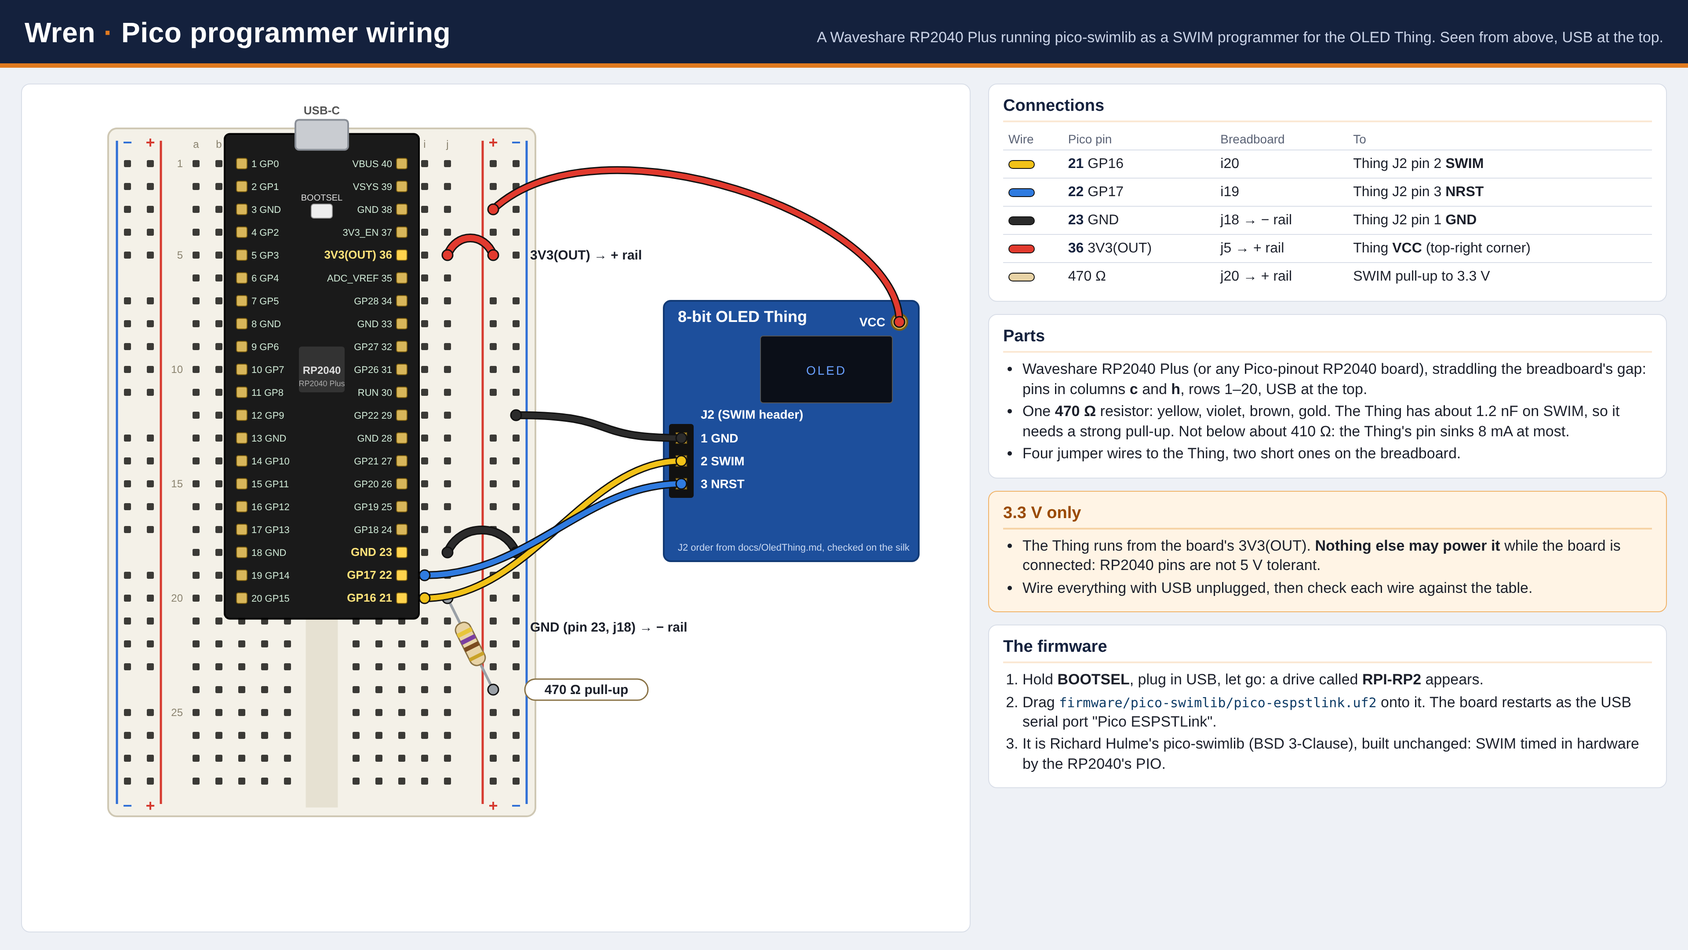
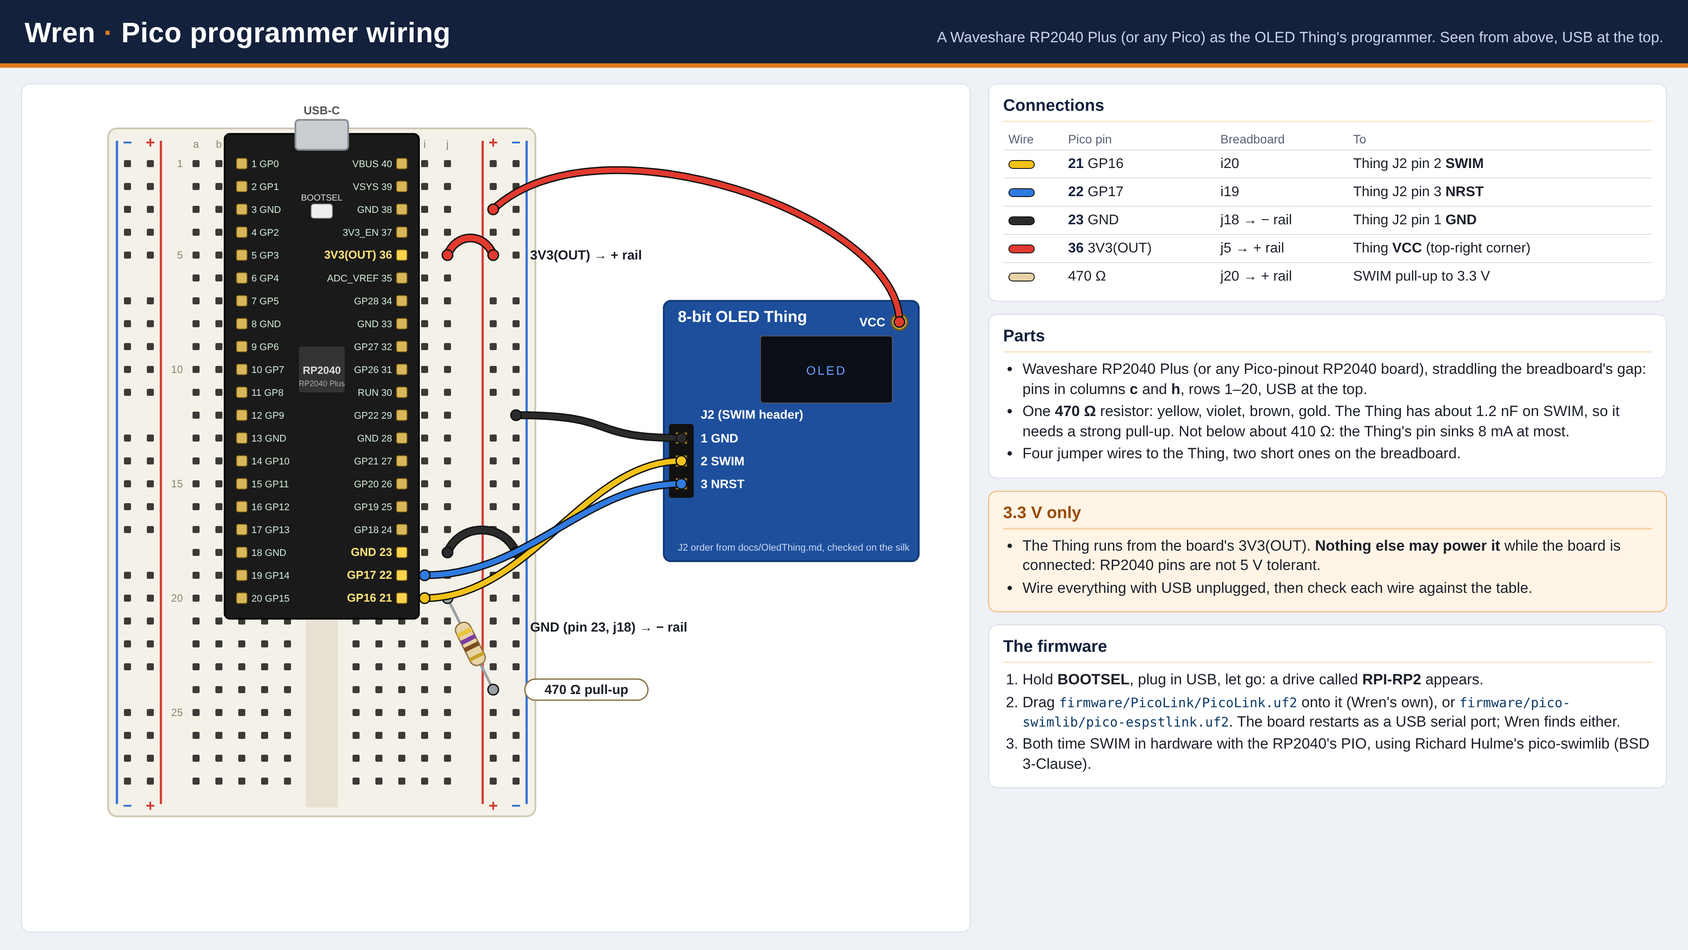
Tools → Firmware: one menu item, wiring sheets as links, refresh beside the list, Copy and Clear on the log
The Programmer and Debug module checks menu items become one, Tools → Firmware…,
and the window is titled Firmware. The wiring paragraph gives way to two links:
the Pico sheet (its firmware card now names PicoLink.uf2) and a new ST-LINK V2
sheet with the power notes. Find is a refresh button after the device list.

Claude-Session: https://claude.ai/code/session_01PM169qrH4mH2uiYQRpnWtD

Changed region(s): [[0.5938, 0.7134, 0.9688, 0.8065], [0.5, 0.031, 0.8438, 0.062]]

diff --git a/docs/Infographics/StLink_Programmer_Wiring.html b/docs/Infographics/StLink_Programmer_Wiring.html
@@ -1,0 +1,159 @@
+<!DOCTYPE html>
+<!--
+  ST-LINK programmer wiring: the source of StLink_Programmer_Wiring.png beside it.
+
+  To render the PNG in Edge or Chrome:
+    1. Open this file in the browser.
+    2. Press F12 for DevTools, then Ctrl+Shift+M for the device toolbar.
+    3. Choose Responsive and set the size to 1920 x 1080.
+    4. In the toolbar's menu (the three dots) add "device pixel ratio" if it is hidden,
+       and set it to 2.
+    5. In the same menu choose "Capture screenshot".
+    6. The result is 3840 x 2160. Save it over StLink_Programmer_Wiring.png.
+
+  Fonts: "Liberation Sans" and "DejaVu Sans Mono", falling back to Arial and Consolas.
+  Facts: the Thing's J2 header and VCC from docs/OledThing.md and docs/LedThing.md; the
+  ST-LINK's pins are named as printed on the common ST-LINK V2 dongle's label, and on ST's
+  own ST-LINK/V2 SWIM connector (UM1075).
+-->
+<html lang="en">
+<head>
+<meta charset="utf-8">
+<title>ST-LINK Programmer Wiring</title>
+<style>
+  :root {
+    --navy: #14213d; --accent: #e07a1f; --accent-soft: #fbe8d4;
+    --ink: #1b1f2a; --muted: #5a6275; --line: #d9dee8; --panel: #ffffff; --page: #eef1f6;
+    --code-ink: #0d3b66;
+  }
+  * { box-sizing: border-box; margin: 0; padding: 0; }
+  html, body { width: 1920px; height: 1080px; overflow: hidden; }
+  body { background: var(--page); color: var(--ink); font-family: "Liberation Sans", Arial, sans-serif;
+         font-size: 17px; line-height: 1.32; display: flex; flex-direction: column; }
+  code { font-family: "DejaVu Sans Mono", Consolas, monospace; font-size: 15px; color: var(--code-ink); }
+  header { background: var(--navy); color: #fff; padding: 16px 28px 14px 28px; display: flex;
+           align-items: baseline; justify-content: space-between; border-bottom: 5px solid var(--accent); }
+  header h1 { font-size: 32px; letter-spacing: 0.3px; }
+  header h1 span { color: var(--accent); }
+  header p { color: #c9d2e6; font-size: 17px; }
+  main { flex: 1; display: flex; gap: 20px; padding: 18px 24px 20px 24px; }
+  .drawing { width: 1080px; background: var(--panel); border: 1px solid var(--line); border-radius: 10px; }
+  .side { flex: 1; display: flex; flex-direction: column; gap: 14px; }
+  .card { background: var(--panel); border: 1px solid var(--line); border-radius: 10px; padding: 12px 16px; }
+  .card h2 { font-size: 19px; color: var(--navy); border-bottom: 2px solid var(--accent-soft); padding-bottom: 4px; margin-bottom: 8px; }
+  table { width: 100%; border-collapse: collapse; font-size: 16px; }
+  th { text-align: left; color: var(--muted); font-weight: normal; font-size: 14px; padding: 2px 6px; }
+  td { padding: 5px 6px; border-top: 1px solid var(--line); vertical-align: middle; }
+  .sw { display: inline-block; width: 30px; height: 10px; border-radius: 5px; border: 1.5px solid #111; vertical-align: middle; }
+  ol, ul { padding-left: 22px; } li { margin: 3px 0; }
+  .note { background: #f1f6ff; border-color: #b9cdee; }
+  b.k { color: var(--navy); }
+  svg text { font-family: "Liberation Sans", Arial, sans-serif; }
+  .dongle { font-size: 22px; fill: #fff; font-weight: bold; }
+  .dongle2 { font-size: 14px; fill: #c8ccd4; }
+  .hdr { font-size: 15px; fill: #fff; font-weight: bold; }
+  .hdrdim { font-size: 14px; fill: #8d93a0; }
+  .thing { font-size: 22px; fill: #fff; font-weight: bold; }
+  .thing2 { font-size: 13px; fill: #c9d8f2; }
+  .thpin { font-size: 16px; fill: #fff; font-weight: bold; }
+  .callout { font-size: 17px; fill: #1b1f2a; font-weight: bold; }
+  .small { font-size: 14px; fill: #5a6275; }
+</style>
+</head>
+<body>
+<header>
+  <h1>Wren <span>·</span> ST-LINK programmer wiring</h1>
+  <p>An ST-LINK V2 (or a compatible dongle) as the Thing's programmer: four wires to the Thing.</p>
+</header>
+<main>
+  <div class="drawing">
+    <svg width="1080" height="935" viewBox="0 0 1080 935">
+      <!-- The ST-LINK dongle, its header as its label shows it -->
+      <rect x="70" y="160" width="380" height="560" rx="22" fill="#3a3f4b" stroke="#22252c" stroke-width="3"/>
+      <rect x="185" y="105" width="150" height="70" rx="8" fill="#b9bec8" stroke="#7d828c" stroke-width="2"/>
+      <text x="260" y="148" text-anchor="middle" font-size="16" fill="#3a3f4b" font-weight="bold">USB</text>
+      <text x="260" y="225" text-anchor="middle" class="dongle">ST-LINK V2</text>
+      <text x="260" y="250" text-anchor="middle" class="dongle2">the label on the case names each pin</text>
+      <rect x="150" y="295" width="260" height="350" rx="8" fill="#1e2128" stroke="#555b66" stroke-width="2"/>
+      <circle cx="185" cy="330" r="9" fill="#5b616d"/><text x="205" y="335" class="hdrdim">SWDIO</text>
+      <text x="362" y="335" class="hdr" text-anchor="end">RST</text><circle cx="385" cy="330" r="11" fill="#e8c34a"/>
+      <circle cx="185" cy="400" r="9" fill="#5b616d"/><text x="205" y="405" class="hdrdim">GND</text>
+      <text x="362" y="405" class="hdr" text-anchor="end">GND</text><circle cx="385" cy="400" r="11" fill="#e8c34a"/>
+      <circle cx="185" cy="470" r="9" fill="#5b616d"/><text x="205" y="475" class="hdrdim">SWCLK</text>
+      <text x="362" y="475" class="hdr" text-anchor="end">SWIM</text><circle cx="385" cy="470" r="11" fill="#e8c34a"/>
+      <circle cx="185" cy="540" r="9" fill="#5b616d"/><text x="205" y="545" class="hdrdim">3.3V</text>
+      <text x="362" y="545" class="hdr" text-anchor="end">3.3V</text><circle cx="385" cy="540" r="11" fill="#e8c34a"/>
+      <circle cx="185" cy="610" r="9" fill="#5b616d"/><text x="205" y="615" class="hdrdim">5.0V</text>
+      <text x="362" y="615" class="hdrdim" text-anchor="end">5.0V</text><circle cx="385" cy="610" r="9" fill="#5b616d"/>
+      <text x="260" y="690" text-anchor="middle" class="dongle2">the common dongle's header; check your label</text>
+
+      <!-- The Thing, as on the Pico sheet: J2 down its left edge, VCC top right -->
+      <rect x="640" y="280" width="340" height="380" rx="12" fill="#1d4f9c" stroke="#123a75" stroke-width="3"/>
+      <rect x="790" y="330" width="160" height="80" rx="4" fill="#0b0f18" stroke="#555"/>
+      <text x="870" y="377" text-anchor="middle" font-size="18" fill="#6aa0ff" letter-spacing="3">OLED</text>
+      <text x="660" y="315" class="thing">The Thing</text>
+      <text x="660" y="640" class="thing2">J2 order from docs/OledThing.md, checked on the silk</text>
+      <circle cx="958" cy="305" r="11" fill="#d8b65a" stroke="#7a5d10" stroke-width="2"/>
+      <text x="940" y="311" class="thpin" text-anchor="end">VCC</text>
+      <rect x="652" y="440" width="34" height="140" fill="#111" rx="3"/>
+      <text x="698" y="432" class="thing2">J2 (SWIM header)</text>
+      <rect x="663" y="454" width="12" height="12" fill="#d8b65a" stroke="#7a5d10"/><text x="698" y="466" class="thpin">1  GND</text>
+      <rect x="663" y="504" width="12" height="12" fill="#d8b65a" stroke="#7a5d10"/><text x="698" y="516" class="thpin">2  SWIM</text>
+      <rect x="663" y="554" width="12" height="12" fill="#d8b65a" stroke="#7a5d10"/><text x="698" y="566" class="thpin">3  NRST</text>
+
+      <!-- Wires -->
+      <path d="M385,400 C520,400 540,460 669,460" fill="none" stroke="#111" stroke-width="10" stroke-linecap="round" stroke-linejoin="round"/>
+      <path d="M385,400 C520,400 540,460 669,460" fill="none" stroke="#2b2b2b" stroke-width="7" stroke-linecap="round" stroke-linejoin="round"/>
+      <path d="M385,470 C520,470 540,510 669,510" fill="none" stroke="#111" stroke-width="10" stroke-linecap="round" stroke-linejoin="round"/>
+      <path d="M385,470 C520,470 540,510 669,510" fill="none" stroke="#f2c218" stroke-width="7" stroke-linecap="round" stroke-linejoin="round"/>
+      <path d="M385,330 C560,330 500,560 669,560" fill="none" stroke="#111" stroke-width="10" stroke-linecap="round" stroke-linejoin="round"/>
+      <path d="M385,330 C560,330 500,560 669,560" fill="none" stroke="#2f7be0" stroke-width="7" stroke-linecap="round" stroke-linejoin="round"/>
+      <path d="M385,540 C470,540 470,760 580,760 L1030,760 L1030,305 L958,305" fill="none" stroke="#111" stroke-width="10" stroke-linecap="round" stroke-linejoin="round"/>
+      <path d="M385,540 C470,540 470,760 580,760 L1030,760 L1030,305 L958,305" fill="none" stroke="#e23a2e" stroke-width="7" stroke-linecap="round" stroke-linejoin="round"/>
+      <circle cx="385" cy="400" r="6" fill="#2b2b2b" stroke="#111" stroke-width="1.5"/>
+      <circle cx="669" cy="460" r="6" fill="#2b2b2b" stroke="#111" stroke-width="1.5"/>
+      <circle cx="385" cy="470" r="6" fill="#f2c218" stroke="#111" stroke-width="1.5"/>
+      <circle cx="669" cy="510" r="6" fill="#f2c218" stroke="#111" stroke-width="1.5"/>
+      <circle cx="385" cy="330" r="6" fill="#2f7be0" stroke="#111" stroke-width="1.5"/>
+      <circle cx="669" cy="560" r="6" fill="#2f7be0" stroke="#111" stroke-width="1.5"/>
+      <circle cx="385" cy="540" r="6" fill="#e23a2e" stroke="#111" stroke-width="1.5"/>
+      <circle cx="958" cy="305" r="6" fill="#e23a2e" stroke="#111" stroke-width="1.5"/>
+      <text x="700" y="795" class="callout">3.3V (or 5.0V) → VCC</text>
+      <text x="540" y="880" class="small" text-anchor="middle">RST → NRST,  SWIM → SWIM,  GND → GND,  3.3V → VCC</text>
+    </svg>
+  </div>
+  <div class="side">
+    <div class="card">
+      <h2>Connections</h2>
+      <table>
+        <tr><th>Wire</th><th>ST-LINK pin</th><th>To the Thing</th></tr>
+        <tr><td><span class="sw" style="background:#2f7be0"></span></td><td><b class="k">RST</b></td><td>J2 pin 3 <b>NRST</b></td></tr>
+        <tr><td><span class="sw" style="background:#f2c218"></span></td><td><b class="k">SWIM</b></td><td>J2 pin 2 <b>SWIM</b></td></tr>
+        <tr><td><span class="sw" style="background:#2b2b2b"></span></td><td><b class="k">GND</b></td><td>J2 pin 1 <b>GND</b></td></tr>
+        <tr><td><span class="sw" style="background:#e23a2e"></span></td><td><b class="k">3.3V</b> or <b class="k">5.0V</b></td><td><b>VCC</b> (top-right corner)</td></tr>
+      </table>
+    </div>
+    <div class="card">
+      <h2>Power</h2>
+      <ul>
+        <li>The Thing runs at <b>3.3 V or 5 V</b> (2.95–5.5 V). The dongle's 3.3V or 5.0V pin powers it; use one, not both.</li>
+        <li>ST's own ST-LINK/V2 does <b>not</b> power the Thing: its SWIM connector's VDD pin only senses the voltage. Power the Thing separately and join the grounds.</li>
+        <li>No pull-up resistor is needed: the ST-LINK drives SWIM properly.</li>
+      </ul>
+    </div>
+    <div class="card">
+      <h2>ST's own ST-LINK/V2</h2>
+      <p>Its separate 4-pin SWIM connector: <b>1</b> VDD (sense), <b>2</b> SWIM, <b>3</b> GND, <b>4</b> RESET. Wire SWIM, GND and RESET as above, and VDD to the Thing's VCC.</p>
+    </div>
+    <div class="card note">
+      <h2>In Wren</h2>
+      <ol>
+        <li>Plug the ST-LINK in. Wren uses it through Windows' own driver (WinUSB).</li>
+        <li><b>Tools → Firmware…</b> sets the Thing up: Install kernel once.</li>
+        <li>Then <b>Debug → Target → Thing on the programmer</b>: F5, Ctrl+F5 and the stepping keys work on the Thing.</li>
+      </ol>
+    </div>
+  </div>
+</main>
+</body>
+</html>

diff --git a/docs/Infographics/Pico_Programmer_Wiring.html b/docs/Infographics/Pico_Programmer_Wiring.html
@@ -66,7 +66,7 @@
 <body>
 <header>
   <h1>Wren <span>·</span> Pico programmer wiring</h1>
-  <p>A Waveshare RP2040 Plus running pico-swimlib as a SWIM programmer for the OLED Thing. Seen from above, USB at the top.</p>
+  <p>A Waveshare RP2040 Plus (or any Pico) as the OLED Thing's programmer. Seen from above, USB at the top.</p>
 </header>
 <main>
   <div class="drawing">
@@ -646,8 +646,8 @@
       <h2>The firmware</h2>
       <ol>
         <li>Hold <b>BOOTSEL</b>, plug in USB, let go: a drive called <b>RPI-RP2</b> appears.</li>
-        <li>Drag <code>firmware/pico-swimlib/pico-espstlink.uf2</code> onto it. The board restarts as the USB serial port "Pico ESPSTLink".</li>
-        <li>It is Richard Hulme's pico-swimlib (BSD 3-Clause), built unchanged: SWIM timed in hardware by the RP2040's PIO.</li>
+        <li>Drag <code>firmware/PicoLink/PicoLink.uf2</code> onto it (Wren's own), or <code>firmware/pico-swimlib/pico-espstlink.uf2</code>. The board restarts as a USB serial port; Wren finds either.</li>
+        <li>Both time SWIM in hardware with the RP2040's PIO, using Richard Hulme's pico-swimlib (BSD 3-Clause).</li>
       </ol>
     </div>
   </div>

diff --git a/src/Wren/LinkWindow.axaml.cs b/src/Wren/LinkWindow.axaml.cs
@@ -1,3 +1,4 @@
+using System.Diagnostics;
 using Avalonia.Controls;
 using Avalonia.Interactivity;
 using Avalonia.Platform.Storage;
@@ -8,7 +9,7 @@ using Wren.Script;
 
 namespace Wren;
 
-/// <summary>Programs a real Thing through an ST-LINK or a Pico: find, connect, install the kernel, upload, run.</summary>
+/// <summary>Tools → Firmware: sets a real Thing up through an ST-LINK or a Pico, and checks it.</summary>
 public partial class LinkWindow : Window
 {
     private readonly Kernel? kernel;
@@ -372,10 +373,23 @@ public partial class LinkWindow : Window
         UpdateButtons();
     }
 
-    /// <summary>Says how to run the debug module checks (from Tools → Debug module checks).</summary>
-    public void ExplainDebugChecks() =>
-        Log("Debug module checks: connect to a Thing running Wren's kernel with a program on it, then click Debug module checks. " +
-            "They write no flash or EEPROM. When they finish, copy the whole log back.");
+    private void OnPicoWiring(object? sender, RoutedEventArgs e) => OpenSheet("Pico_Programmer_Wiring.png");
+
+    private void OnStLinkWiring(object? sender, RoutedEventArgs e) => OpenSheet("StLink_Programmer_Wiring.png");
+
+    private void OpenSheet(string name)
+    {
+        string? found = MainWindow.FindBeside($"docs/Infographics/{name}");
+        if (found == null) Log($"The wiring sheet {name} was not found beside Wren.");
+        else Process.Start(new ProcessStartInfo(found) { UseShellExecute = true });
+    }
+
+    private void OnClearLog(object? sender, RoutedEventArgs e) => LogBox.Text = "";
+
+    private async void OnCopyLog(object? sender, RoutedEventArgs e)
+    {
+        if (Clipboard is { } clipboard) await clipboard.SetTextAsync(LogBox.Text ?? "");
+    }
 
     private async void OnDebugChecks(object? sender, RoutedEventArgs e)
     {

diff --git a/src/Wren/MainWindow.axaml.cs b/src/Wren/MainWindow.axaml.cs
@@ -493,7 +493,7 @@ public partial class MainWindow : Window
     private void OnAbout(object? sender, RoutedEventArgs e) => new SplashWindow { IsAbout = true, WindowStartupLocation = WindowStartupLocation.CenterOwner }.ShowDialog(this);
 
     /// <summary>A file in the repository (looking upward from Wren) or beside Wren.</summary>
-    private static string? FindBeside(string relative)
+    internal static string? FindBeside(string relative)
     {
         var dir = new DirectoryInfo(AppContext.BaseDirectory);
         while (dir != null)
@@ -522,11 +522,6 @@ public partial class MainWindow : Window
         TellProgrammerWindow();
     }
 
-    private void OnDebugChecks(object? sender, RoutedEventArgs e)
-    {
-        OnOpenLink(sender, e);
-        linkWindow?.ExplainDebugChecks();
-    }
 
     // ---- Starting, stopping and stepping (Visual Studio's keys) ----
 
@@ -923,7 +918,7 @@ public partial class MainWindow : Window
         if (session == null) return "";
         if (OnThingTarget)
             return (built == null ? "" : $"Program: {built.Image.Length} bytes in {built.Blocks} of {ProgramStore.Blocks} blocks.\n") +
-                "The Thing's own wear: Tools → Programmer…, Wear report.";
+                "The Thing's own wear: Tools → Firmware…, Wear report.";
         var fat = session.ReadFat();
         var counts = ProgramStore.WriteCounts(fat);
         int uploads = ProgramStore.IsFormatted(fat) ? (fat[6] << 8) | fat[7] : 0;

diff --git a/src/Wren.Link/ThingDebugger.cs b/src/Wren.Link/ThingDebugger.cs
@@ -116,10 +116,10 @@ public sealed class ThingDebugger : IDisposable
         {
             link.Target.Connect();
             if (link.Target.NoAccess)
-                throw new LinkException("The Thing refuses memory access (read-out protection?): see Tools → Programmer….");
+                throw new LinkException("The Thing refuses memory access (read-out protection?): see Tools → Firmware….");
             var info = link.Programmer.ReadInfo();
             if (info == null || info.FatVersion != ProgramStore.FatVersion || info.StoreAddress != ProgramStore.StoreAddress)
-                throw new LinkException("The Thing does not run this Wren's kernel: install it with Tools → Programmer… first.");
+                throw new LinkException("The Thing does not run this Wren's kernel: install it with Tools → Firmware… first.");
             if (info.Board != Board.OledThing)
                 throw new LinkException("The Thing's kernel is not the OLED Thing's.");
             return new ThingDebugger(link, kernel);

diff --git a/src/Wren/MainWindow.Thing.cs b/src/Wren/MainWindow.Thing.cs
@@ -109,7 +109,7 @@ public partial class MainWindow
         SetMode(Mode.Design);
     }
 
-    /// <summary>Tells the Programmer window whether this window holds the Thing.</summary>
+    /// <summary>Tells the Firmware window whether this window holds the Thing.</summary>
     private void TellProgrammerWindow() => linkWindow?.HeldByMainWindow(thing != null, () =>
     {
         ThingStop();
@@ -127,7 +127,7 @@ public partial class MainWindow
 
     /// <summary>
     /// F5 or Ctrl+F5 from a stopped program: builds if needed, takes the
-    /// programmer (from the Programmer window too), uploads the program only if the Thing holds
+    /// programmer (from the Firmware window too), uploads the program only if the Thing holds
     /// something else, and starts it, under the debugger or on its own.
     /// </summary>
     private void ThingStart(bool debug)

diff --git a/src/Wren.Link/ThingLink.cs b/src/Wren.Link/ThingLink.cs
@@ -109,7 +109,7 @@ public sealed class ThingLink : IDisposable
                 lock (Held)
                 {
                     if (Held.Contains(serial.Port))
-                        throw new LinkException($"{serial.Port} is already open in Wren: stop debugging in the main window (Shift+F5), or click Disconnect in the Programmer window.");
+                        throw new LinkException($"{serial.Port} is already open in Wren: stop debugging in the main window (Shift+F5), or click Disconnect in the Firmware window.");
                     Held.Add(serial.Port);
                 }
                 try

diff --git a/src/Wren.Script/AppSettings.cs b/src/Wren.Script/AppSettings.cs
@@ -64,7 +64,7 @@ public sealed class AppSettings
     /// <summary>Where Start runs the program: the emulator, or a real Thing through the programmer.</summary>
     public RunTarget Target { get; set; } = RunTarget.Emulator;
 
-    /// <summary>The programmer last connected to, as the Programmer window names it.</summary>
+    /// <summary>The programmer last connected to, as the Firmware window names it.</summary>
     public string? LastProgrammer { get; set; }
 
     /// <summary>The program file last opened.</summary>

diff --git a/docs/ProjectPlan.md b/docs/ProjectPlan.md
@@ -123,7 +123,7 @@ The detailed design, for approval, is in [Design.md](Design.md).
 1. **The USB driver (first).** Wren.Link opens the ST-LINK through WinUSB, which ST's
    own ST-LINK driver (STSW-LINK009) uses, so it should work beside STVP without Zadig.
    To check, with the ST-LINK plugged in and nothing else using it:
-   1. In Visual Studio, run **Wren** and choose **Tools → Programmer…**.
+   1. In Visual Studio, run **Wren** and choose **Tools → Firmware…**.
    2. The log should list the ST-LINK. If it says "No ST-LINK found", open Device
       Manager and note where the ST-LINK appears and what driver it shows.
    3. Wire the ST-LINK to the S103 board (RST, SWIM, GND, and 3.3 V to the board), click
@@ -137,7 +137,7 @@ The detailed design, for approval, is in [Design.md](Design.md).
    checked does, and keeps it through a power cycle. Install kernel writes and reads
    back one block at $4080 and, if it holds, gives the program 512 setting bytes there
    instead of 12 (the kernel's info block records which). That quick check does not prove
-   the extra EEPROM keeps its contents: the Programmer window's **EEPROM size check** does,
+   the extra EEPROM keeps its contents: the Firmware window's **EEPROM size check** does,
    with a power cycle between writing a pattern to $4080-$427F and reading it back, and
    puts the original bytes back. Run it on the other Things and copy the logs back.
 4. **DIV and the Z flag.** ucsim 0.6.4 sets Z after DIV/DIVW when the quotient is not

diff --git a/README.md b/README.md
@@ -18,7 +18,7 @@ SWIM are ST's names, used here to describe compatibility.
   emulated OLED Thing (the OLED, the inputs and pins, the current line, variables and the
   flash write counts), or a real Thing on the programmer, where the same keys upload the
   program only if it changed, run it and debug it on the chip (two breakpoints at a time).
-  **Tools → Programmer…** sets a Thing up. A program saved from another editor reloads
+  **Tools → Firmware…** sets a Thing up. A program saved from another editor reloads
   by itself.
 - **Wren BASIC**: the Thing's language. Programs react to events (`ON CHANGE`,
   `ON LATCH PD3 RISING WHILE PD2 LOW`, `ON EVERY 100` ...) and draw with statements
@@ -40,7 +40,7 @@ SWIM are ST's names, used here to describe compatibility.
 - **Wren.Link**: programming a real Thing through an ST-LINK V2 (Windows, WinUSB) or a
   Raspberry Pi Pico or RP2040 Plus running pico-swimlib ([docs/PicoLink.md](docs/PicoLink.md)): install
   the kernel, upload programs through the FAT, read the wear history. Only blocks that
-  change are written. In Wren: **Tools → Programmer…**.
+  change are written. In Wren: **Tools → Firmware…**.
 
 See [docs/ProjectPlan.md](docs/ProjectPlan.md).
 

diff --git a/docs/PicoLink.md b/docs/PicoLink.md
@@ -1,7 +1,7 @@
 # The Pico programmer
 
 A Raspberry Pi Pico, or a Pico-compatible board such as the Waveshare RP2040 Plus, stands in
-for an ST-LINK V2. Wren finds it as a serial port. **Tools → Programmer…** sets a Thing up
+for an ST-LINK V2. Wren finds it as a serial port. **Tools → Firmware…** sets a Thing up
 through it (install the kernel, write images, restore factory settings, read the wear
 history, the checks), and on **Debug → Target → Thing on the programmer** the main window
 uploads, runs and debugs programs through it. Two firmwares are available. Both use the same wiring, and
@@ -60,7 +60,7 @@ must not be powered from anything else while the board is connected. The OLED is
 ## Using it in Wren
 
 1. Wire the board to the Thing as above, and plug it in.
-2. In Wren, choose **Tools → Programmer…** and click **Find**. The list shows
+2. In Wren, choose **Tools → Firmware…**. The list shows
    **Pico on COMn**.
 3. Choose it and click **Connect**.
    - The log names the firmware and the sync pulse (16 µs is right).

diff --git a/docs/Design.md b/docs/Design.md
@@ -30,7 +30,7 @@ Facts from RM0016 for the STM8S003 (low density):
 - The UBC option byte locks blocks 0 to N-1 against all writes from firmware.
 - The 128-byte data EEPROM is 2 blocks of 64 bytes, rated ~100k writes. Some STM8S003s
   have the S103's 640 bytes ($4000-$427F); Wren checks each Thing as it installs the
-  kernel (the Programmer window's EEPROM size check proves it with a power cycle).
+  kernel (the Firmware window's EEPROM size check proves it with a power cycle).
 
 | Blocks | Address | Size | Use |
 |---|---|---|---|
